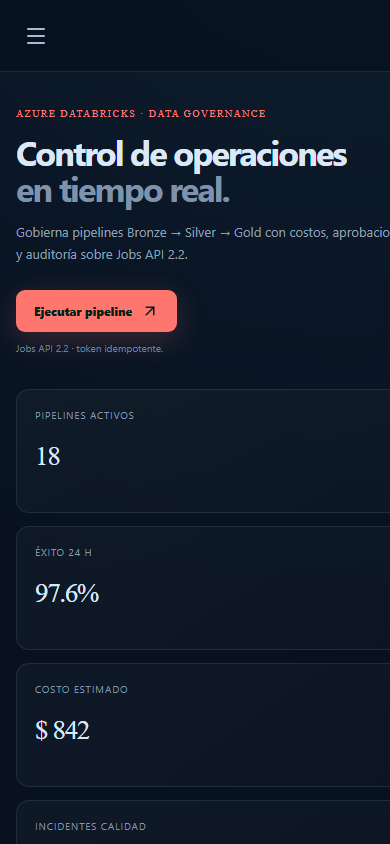
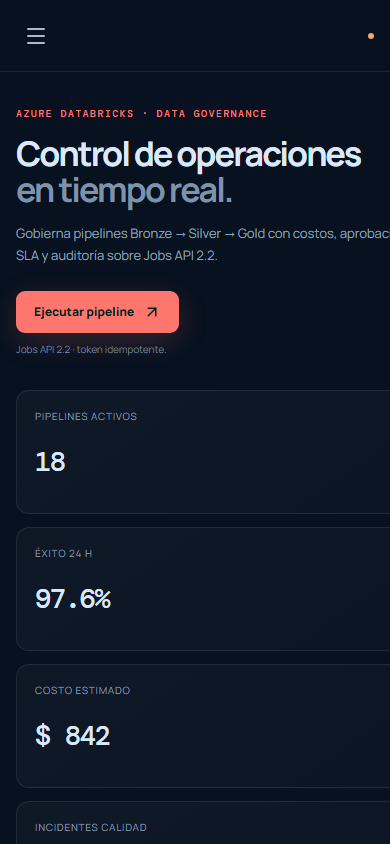
docs(portfolio): add per-view evidence and real GitFlow

diff --git a/frontend/src/App.tsx b/frontend/src/App.tsx
@@ -10,6 +10,7 @@ type ApiState = 'checking'|'online'|'offline';
 type Theme = 'dark'|'light';
 
 const icons = [Activity, Boxes, Server, ShieldCheck, Gauge];
+const portfolioRelease = project.name === 'OrderFlow' ? 'v0.4.0' : 'v0.3.0';
 
 export default function App() {
   const params = new URLSearchParams(window.location.search);
@@ -52,7 +53,7 @@ export default function App() {
       <button className="close" aria-label="Cerrar menú" onClick={()=>setMobile(false)}><X/></button>
       <div className="brand"><span className="brand-mark">{project.initials}</span><div><b>{project.name}</b><small>Operations</small></div></div>
       <nav>{project.nav.map((item,index)=>{const Icon=icons[index]??Server;return <button className={index===activeView?'active':''} aria-current={index===activeView?'page':undefined} onClick={()=>selectView(index)} key={item}><span><Icon size={17}/></span>{item}</button>})}</nav>
-      <div className="sidebar-card"><Command size={19}/><b>Java Platform</b><p>Cinco vistas operativas con evidencia reproducible.</p><span>release {project.release ?? 'portfolio'}</span></div>
+      <div className="sidebar-card"><Command size={19}/><b>Java Platform</b><p>Cinco vistas operativas con evidencia reproducible.</p><span>release {project.release ?? portfolioRelease}</span></div>
       <div className="profile"><span>AR</span><div><b>Andrea R.</b><small>Platform operator</small></div></div>
     </aside>
     <main>

diff --git a/README.md b/README.md
@@ -14,7 +14,7 @@ aprobaciones, calidad, reintentos y auditoría desde Java.</i></p>
   <img src="https://img.shields.io/badge/Azure_Databricks-Jobs_API_2.2-FF3621?logo=databricks&logoColor=white" alt="Azure Databricks">
   <img src="https://img.shields.io/badge/Azure-Bicep-0078D4?logo=microsoftazure&logoColor=white" alt="Azure Bicep">
   <img src="https://img.shields.io/badge/PostgreSQL-auditoría-4169E1?logo=postgresql&logoColor=white" alt="PostgreSQL">
-  <img src="https://img.shields.io/badge/pruebas-4_aprobadas-2EAD33" alt="4 pruebas">
+  <img src="https://img.shields.io/badge/pruebas-5_aprobadas-2EAD33" alt="5 pruebas">
   <a href="LICENSE"><img src="https://img.shields.io/badge/licencia-MIT-blue" alt="MIT"></a>
 </p>
 
@@ -70,9 +70,15 @@ flujo puede ejecutarse sin Databricks real.
 
 ## Capturas
 
-| Escritorio | Móvil |
-|---|---|
-| <img src="docs/screenshots/dashboard-desktop.png" alt="Lakehouse escritorio" width="620"> | <img src="docs/screenshots/dashboard-mobile.png" alt="Lakehouse móvil" width="230"> |
+| Pantalla | Claro | Oscuro |
+|---|---|---|
+| Control plane | ![Control plane claro](docs/screenshots/01-control-plane-light.png) | ![Control plane oscuro](docs/screenshots/01-control-plane-dark.png) |
+| Pipelines | ![Pipelines claros](docs/screenshots/02-pipelines-light.png) | ![Pipelines oscuros](docs/screenshots/02-pipelines-dark.png) |
+| Ejecuciones | ![Ejecuciones claras](docs/screenshots/03-ejecuciones-light.png) | ![Ejecuciones oscuras](docs/screenshots/03-ejecuciones-dark.png) |
+| Calidad | ![Calidad clara](docs/screenshots/04-calidad-light.png) | ![Calidad oscura](docs/screenshots/04-calidad-dark.png) |
+| Costos y SLA | ![Costos y SLA claro](docs/screenshots/05-costos-sla-light.png) | ![Costos y SLA oscuro](docs/screenshots/05-costos-sla-dark.png) |
+
+<p align="center"><img src="docs/screenshots/dashboard-mobile.png" alt="Lakehouse móvil" width="230"></p>
 
 ---
 
@@ -180,6 +186,9 @@ cd frontend && npm ci && npm test && npm run build
 ---
 
 ## GitFlow
+
+El gráfico reproduce el historial real hasta `v0.3.0`, desde las ramas de
+trabajo hasta la release etiquetada y su reintegración en `develop`.
 
 <p align="center">
   <img src="diagrams/rendered/gitflow.svg" alt="GitFlow Lakehouse" width="760">

diff --git a/docs/README.md b/docs/README.md
@@ -4,7 +4,7 @@
 |---|---|
 | [Arquitectura](ARCHITECTURE.md) | Jobs API, costos, calidad y auditoría |
 | [Runbook](RUNBOOK.md) | Operación, diagnóstico y recuperación |
-| [Capturas](screenshots) | Consola DataOps en escritorio y móvil |
+| [Capturas](screenshots) | Cinco vistas en temas claro/oscuro y evidencia móvil |
 | [Diagramas](../diagrams) | Arquitectura, ejecución y GitFlow |
 | [Databricks](../databricks) | Artefactos de la integración |
 | [Infraestructura](../infra) | Bicep para Azure |
